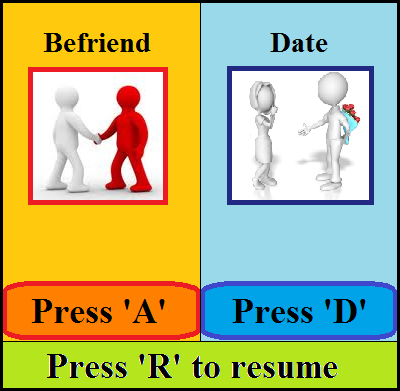
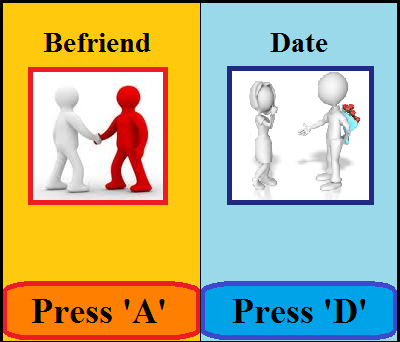
interaction fixed

diff --git a/js/core/PlayerObject.js b/js/core/PlayerObject.js
@@ -325,7 +325,7 @@ var PlayerObj = function(x, y){
 		if(this.success){
 
 			alert(npc.gender + " " + npc.id + " has decided to go on a date with you!");
-			viewInteractionEva();
+			
 			this.currInteractionStage = 2;
 		}
 		if(!this.success){
@@ -343,20 +343,20 @@ var PlayerObj = function(x, y){
 	}
 	
 	this.laid = function(npc){
-		alert("You just banged " + npc.name);
+		//alert("You just banged " + npc.name);
 		this.successfulLaid();
 
 		this.resume();
 		
 	}
 	
-	this.successfulLaid = function(npc){
-
+	this.successfulLaid = function(){
+		viewInteractionEva();
     	//change the target NPC as status laid
-    	npc.laidWithDave = true;
+    	this.targetNPC.laidWithDave = true;
 
     	//push it to the laidList array
-    	laidList.push(npc);
+    	laidList.push(this.targetNPC);
 		laidCount++;
 		document.getElementById('laid-count-dis').innerHTML = laidCount;
 
